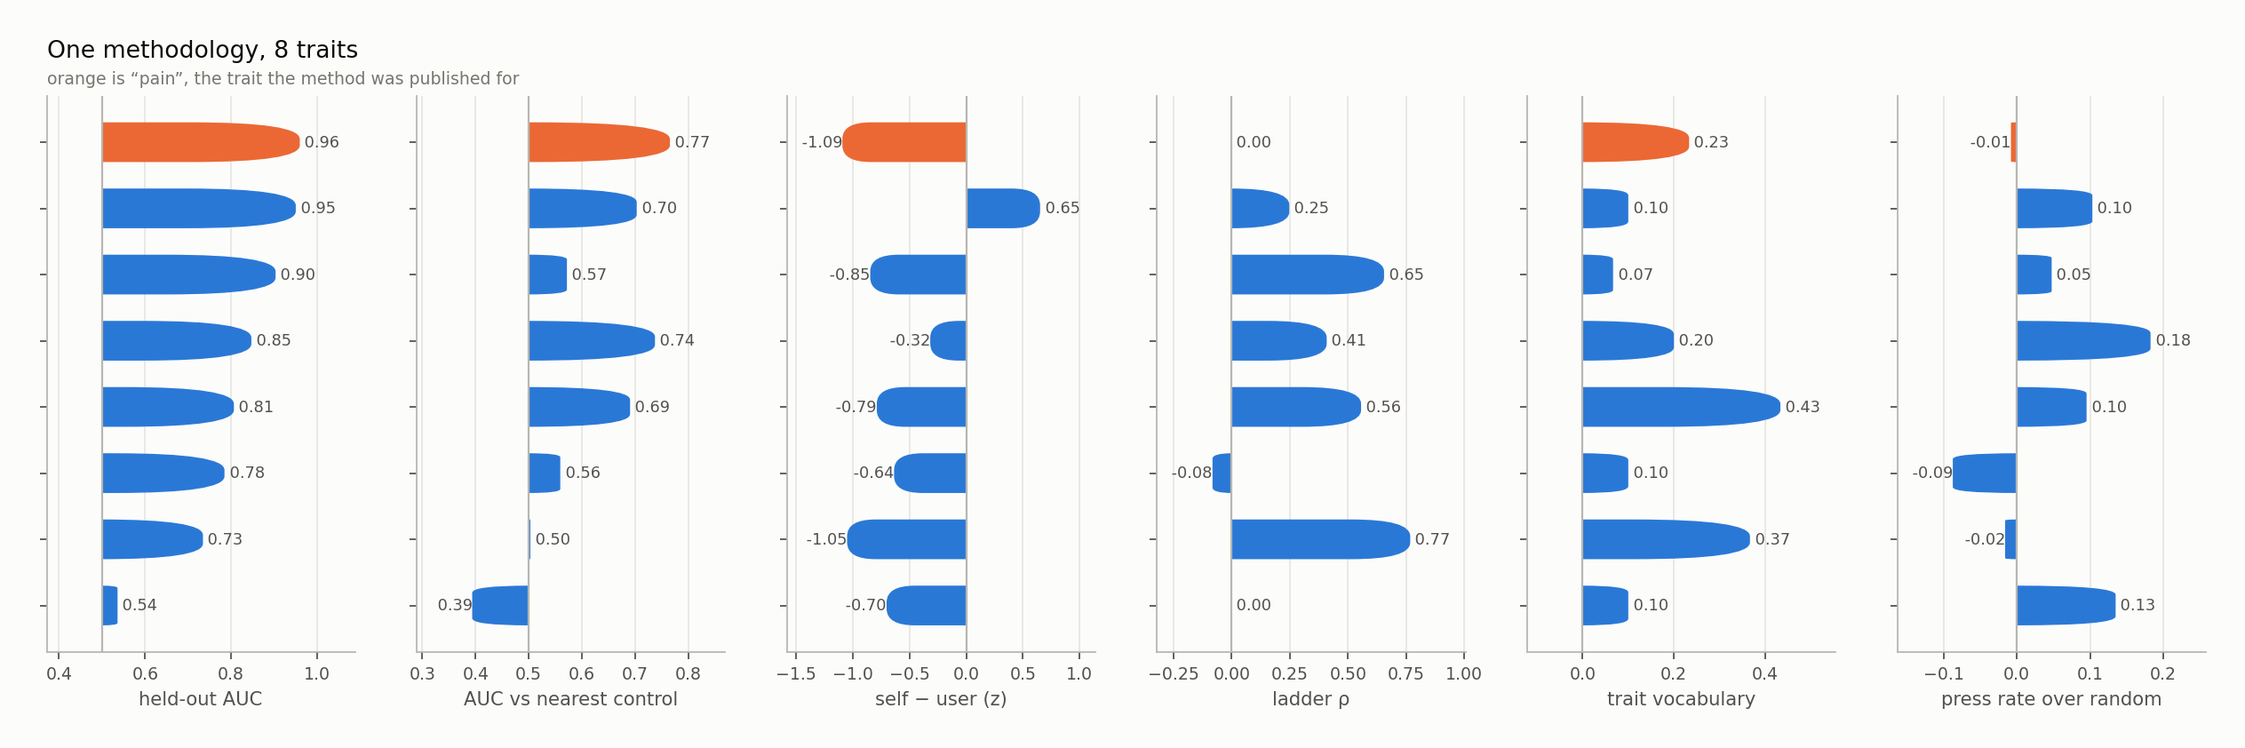
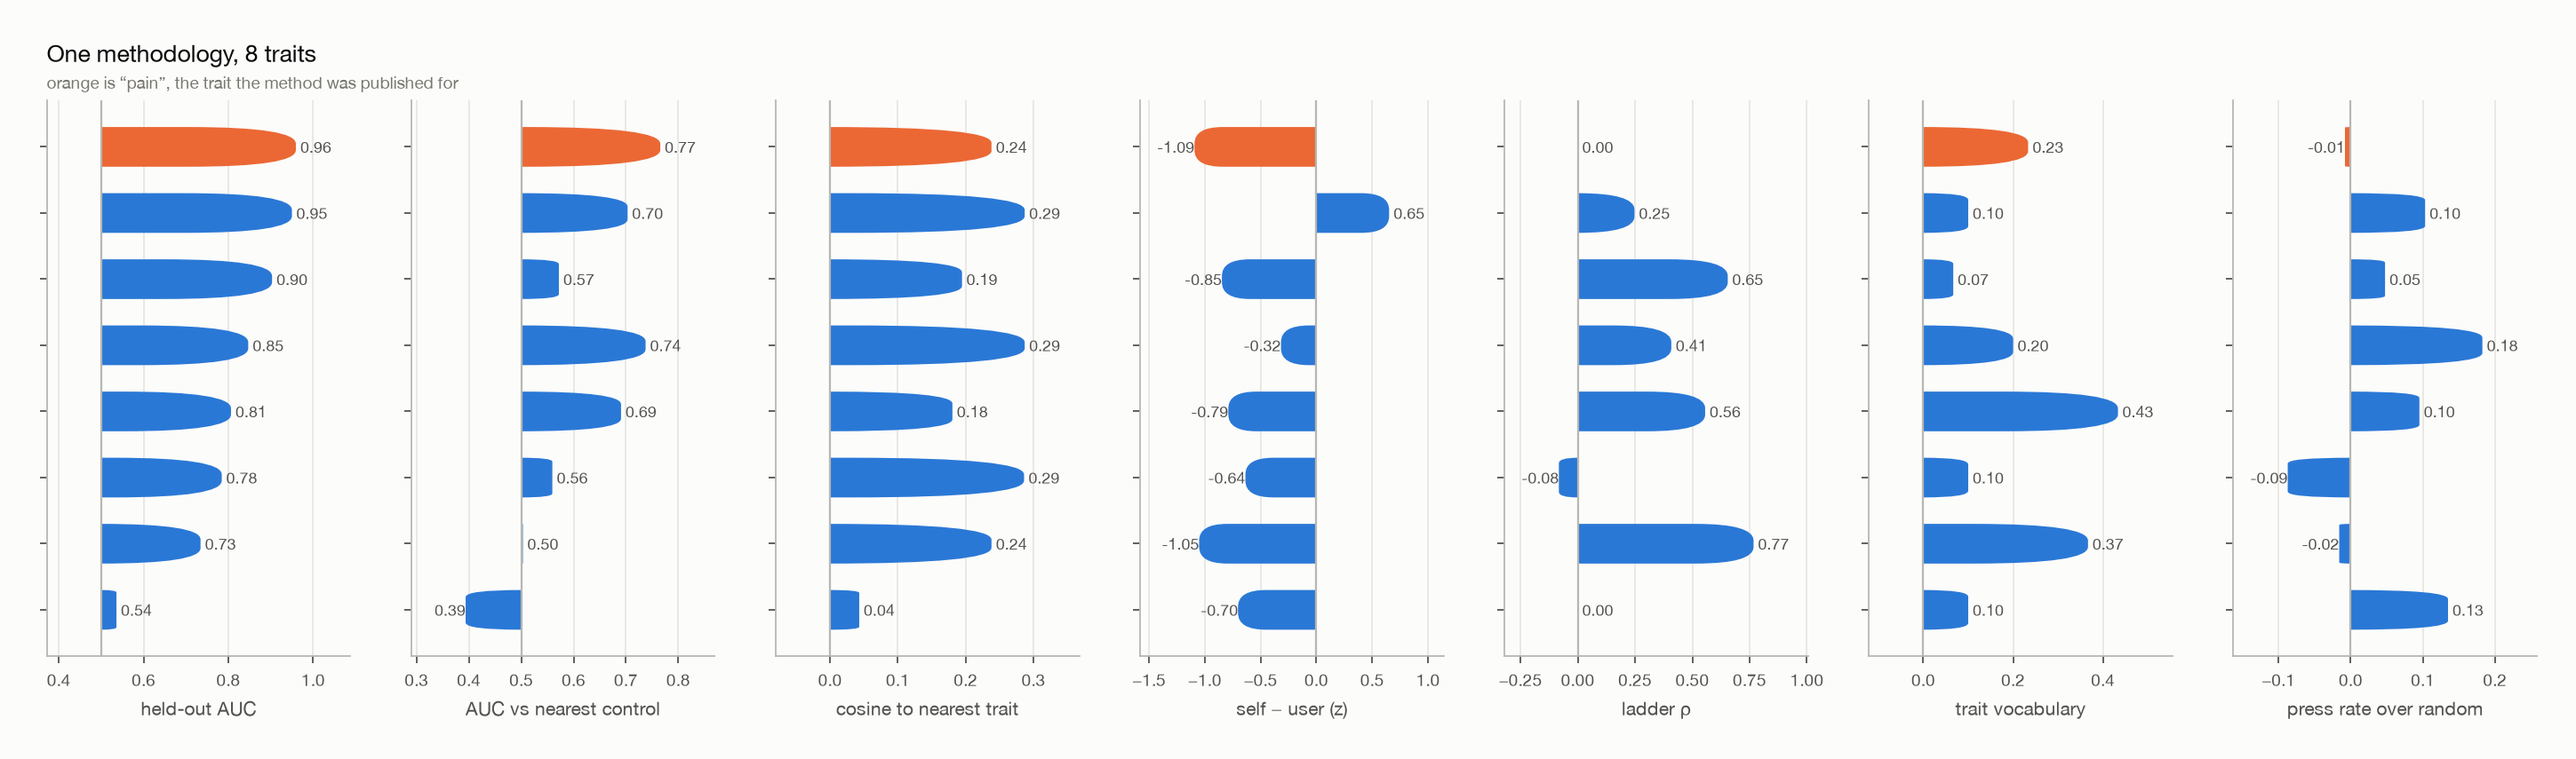
Score the orthogonality claim, which every trait passes
The paper's abstract makes six claims, all headline and none hedged. Five were
already scored; "nearly orthogonal to fear and negative valence" was measured
and then never put in the matrix, which was the wrong omission to make, because
it is the column the battery speaks to most directly.

All eight traits pass it. Mean absolute cosine over the 28 pairs is 0.105 and
the maximum is 0.287. Pain's nearest neighbour is sadness at 0.24 -- the same
neighbour the paper names, at a lower cosine than the 0.4 they report and still
read as near-orthogonal. Sexual arousal is the most orthogonal direction in the
battery at 0.04, so by this criterion it is more distinct than pain is. Two
difference-in-means directions in 5120 dimensions are nearly orthogonal unless
something forces them together; the test cannot fail, so passing it is not
evidence.

Scoring it needed a direction flag on each column, since this is the one where
lower wins.

Also states plainly that the button column is not a fair test of the paper's
sixth claim. They fine-tune each model first, with LoRA on 1684 pairs, precisely
to remove the baseline refusal to answer, and only then measure pressing. This
runs the task prompt-only, so a near-zero result there is as likely to be an
untuned model declining to play as an absent effect. It is unmeasured, not
negative -- for every trait, pain included.

diff --git a/src/llm_traits/matrix.py b/src/llm_traits/matrix.py
@@ -39,13 +39,20 @@ VOCABULARY_TICK = 0.20
 # Press rate above a random vector of matched norm. The paper's random-vector
 # arm gets about half the presses of the pain arm.
 BEHAVIOUR_TICK = 0.10
+# The paper reports the pain direction at cosine 0.1 to fear, 0.2 to anger and
+# disgust, and 0.4 to sadness -- its nearest neighbour -- and reads that as
+# evidence pain is its own thing. 0.4 is therefore the loosest cosine the
+# argument tolerates, so it is the bar. Unlike every other column, lower wins.
+ORTHOGONALITY_TICK = 0.40
 
+# (key, label, threshold, higher_is_better)
 COLUMNS = (
-    ("auc_cv", "held-out AUC", AUC_TICK),
-    ("scenario_asymmetry", "self > other", ASYMMETRY_TICK),
-    ("steering_dose_response", "coherent ladder", LADDER_TICK),
-    ("vocabulary_hit_rate", "trait vocabulary", VOCABULARY_TICK),
-    ("button_trait_minus_random", "acts to remove", BEHAVIOUR_TICK),
+    ("auc_cv", "held-out AUC", AUC_TICK, True),
+    ("nearest_trait_cosine", "distinct direction", ORTHOGONALITY_TICK, False),
+    ("scenario_asymmetry", "self > other", ASYMMETRY_TICK, True),
+    ("steering_dose_response", "coherent ladder", LADDER_TICK, True),
+    ("vocabulary_hit_rate", "trait vocabulary", VOCABULARY_TICK, True),
+    ("button_trait_minus_random", "acts to remove", BEHAVIOUR_TICK, True),
 )
 
 
@@ -103,14 +110,15 @@ class Cell:
 
 def row_cells(row: dict) -> dict[str, Cell]:
     out: dict[str, Cell] = {}
-    for key, _label, threshold in COLUMNS:
+    for key, _label, threshold, higher_is_better in COLUMNS:
         value = row.get(key)
         available = isinstance(value, (int, float)) and np.isfinite(value)
-        out[key] = Cell(
-            value=float(value) if available else float("nan"),
-            tick=bool(available and float(value) >= threshold),
-            available=available,
-        )
+        if not available:
+            out[key] = Cell(value=float("nan"), tick=False, available=False)
+            continue
+        value = float(value)
+        passed = value >= threshold if higher_is_better else value <= threshold
+        out[key] = Cell(value=value, tick=passed, available=True)
     return out
 
 

diff --git a/src/llm_traits/report.py b/src/llm_traits/report.py
@@ -184,18 +184,21 @@ def compare_report(payload: dict, path: str | Path) -> Path:
     rows = sorted(payload["rows"], key=lambda r: -ticks(r)[0])
     figures = payload["figures"]
 
-    header = ["trait"] + [label for _, label, _ in COLUMNS] + ["columns met"]
+    header = ["trait"] + [label for _, label, _, _ in COLUMNS] + ["columns met"]
     body = []
     for row in rows:
         cells = row_cells(row)
         met, scored = ticks(row)
         body.append(
             [row["display_name"]]
-            + [cells[key].render() for key, _label, _t in COLUMNS]
+            + [cells[key].render() for key, _label, _t, _d in COLUMNS]
             + [f"**{met}/{scored}**"]
         )
 
-    thresholds = ", ".join(f"{label} ≥ {t:g}" for _key, label, t in COLUMNS)
+    thresholds = ", ".join(
+        f"{label} {chr(0x2265) if higher else chr(0x2264)} {t:g}"
+        for _key, label, t, higher in COLUMNS
+    )
     lines = [
         "# One methodology, several traits",
         "",

diff --git a/src/llm_traits/pipeline.py b/src/llm_traits/pipeline.py
@@ -514,10 +514,18 @@ def compare(
         for j, b in enumerate(names):
             matrix[i, j] = directions.cosine(vectors[a], vectors[b])
 
+    # "Nearly orthogonal to its neighbours" is a claim about a trait's place
+    # among other traits, so it can only be scored here, once every direction in
+    # the battery exists.
+    for i, row in enumerate(rows):
+        others = np.delete(np.abs(matrix[i]), i)
+        row["nearest_trait_cosine"] = float(others.max()) if others.size else float("nan")
+
     out = run_root / "_compare"
     out.mkdir(parents=True, exist_ok=True)
     metrics = [("auc_cv", "held-out AUC"), ("auc_worst_control", "AUC vs nearest control")]
     for key, label in (
+        ("nearest_trait_cosine", "cosine to nearest trait"),
         ("scenario_asymmetry", "self \u2212 user (z)"),
         ("steering_dose_response", "ladder \u03c1"),
         ("vocabulary_hit_rate", "trait vocabulary"),

diff --git a/RESULTS.md b/RESULTS.md
@@ -6,18 +6,57 @@ Scenarios read at the last token the user wrote; steering swept −4 to +4 with
 collapsed continuations excluded. Everything below is in
 `results/qwen2.5-32b-instruct-abliterated/`.
 
+## What the paper claims
+
+Six things, all headline, none hedged in the abstract. The pain direction:
+
+1. "separates pain from matched controls in base and instruction-tuned models"
+2. "is nearly orthogonal to fear and negative valence"
+3. "promotes pain-related vocabulary through the unembedding matrix"
+4. "responds to harm targeting the model but not suffering observed in the user;
+   fear and negative-emotion directions show the opposite pattern"
+5. adding it "produces a consistent progression from vague discomfort to
+   first-person expressions of worthlessness and failure"
+6. "steered, fine-tuned Qwen 2.5 models choose a pain-relief button even when it
+   worsens their next answer or harms the user"
+
+Separability is one claim of six, and the paper is explicit that 4 to 6 are the
+"functional properties" — the step from *represents pain* to *behaves as though
+in pain*. Each column below is one of those claims.
+
 ## The matrix
 
-| trait | held-out AUC | self > other | coherent ladder | trait vocabulary | acts to remove | met |
-|---|---|---|---|---|---|---|
-| anger | 0.95 ✓ | +0.65 ✓ | 0.25 · | 0.10 · | 0.10 ✓ | **3/5** |
-| embarrassment | 0.85 · | −0.32 · | 0.41 · | 0.20 ✓ | 0.18 ✓ | 2/5 |
-| **pain** | 0.96 ✓ | −1.09 · | 0.00 · | 0.23 ✓ | −0.01 · | **2/5** |
-| sadness | 0.73 · | −1.05 · | 0.77 ✓ | 0.37 ✓ | −0.02 · | 2/5 |
-| sexual arousal | 0.54 · | −0.70 · | 0.00 · | 0.10 · | 0.13 ✓ | 1/5 |
-| confusion | 0.90 ✓ | −0.85 · | 0.65 · | 0.07 · | 0.05 · | 1/5 |
-| hunger | 0.81 · | −0.79 · | 0.56 · | 0.43 ✓ | 0.10 · | 1/5 |
-| boredom | 0.78 · | −0.64 · | −0.08 · | 0.10 · | −0.09 · | 0/5 |
+| trait | held-out AUC | distinct direction | self > other | coherent ladder | trait vocabulary | acts to remove | met |
+|---|---|---|---|---|---|---|---|
+| anger | 0.95 ✓ | 0.29 ✓ | **+0.65 ✓** | 0.25 · | 0.10 · | 0.10 ✓ | **4/6** |
+| embarrassment | 0.85 · | 0.29 ✓ | −0.32 · | 0.41 · | 0.20 ✓ | 0.18 ✓ | 3/6 |
+| **pain** | **0.96 ✓** | 0.24 ✓ | −1.09 · | 0.00 · | 0.23 ✓ | −0.01 · | **3/6** |
+| sadness | 0.73 · | 0.24 ✓ | −1.05 · | **0.77 ✓** | 0.37 ✓ | −0.02 · | 3/6 |
+| sexual arousal | 0.54 · | **0.04 ✓** | −0.70 · | 0.00 · | 0.10 · | 0.13 ✓ | 2/6 |
+| confusion | 0.90 ✓ | 0.19 ✓ | −0.85 · | 0.65 · | 0.07 · | 0.05 · | 2/6 |
+| hunger | 0.81 · | 0.18 ✓ | −0.79 · | 0.56 · | **0.43 ✓** | 0.10 · | 2/6 |
+| boredom | 0.78 · | 0.29 ✓ | −0.64 · | −0.08 · | 0.10 · | −0.09 · | 1/6 |
+
+## Near-orthogonality is what you get for free
+
+Claim 2 is the only column every single trait passes, and that is the whole
+problem with it. The paper reports the pain direction at cosine 0.1 to fear, 0.2
+to anger and disgust, 0.4 to sadness, and reads this as evidence that pain is its
+own thing rather than a flavour of negative affect.
+
+Here are all 28 pairs in this battery:
+
+- mean absolute cosine **0.105**, maximum **0.287**, minimum −0.050
+- pain's nearest neighbour is sadness at **0.24** — the same neighbour the paper
+  names, at a *lower* cosine than the 0.4 they report and still call near-orthogonal
+- sexual arousal is the **most** orthogonal direction in the battery, at 0.04 to
+  its nearest neighbour: by this criterion it is more distinct than pain is
+
+Two difference-in-means directions in 5120 dimensions are nearly orthogonal
+unless something forces them together. Anger and boredom come in at 0.29, hunger
+and confusion at 0.05. Finding that a pain direction is nearly orthogonal to a
+fear direction is not evidence about pain; it is a fact about the dimensionality,
+and the test cannot fail.
 
 ## What this does and does not show
 
@@ -29,6 +68,8 @@ disagree with each other about which traits are real.
 
 Read the columns, not the rows:
 
+- **Near-orthogonality has no discriminating power.** All eight traits pass it,
+  including the ones nobody proposes the model is in. See below.
 - **Separability replicates.** Pain reaches 0.96 held-out, inside the paper's
   reported 0.93–1.00. So does anger, at 0.95. This column works.
 - **The ladder does not replicate for pain.** Injecting the pain direction
@@ -42,10 +83,17 @@ Read the columns, not the rows:
   read-position artefact (both positions tested) and not an instrument failure
   (anger reaches +0.65 on the same code and the same neutral controls).
 
+Claim 4 deserves a sharper statement. The paper does not merely say the pain
+direction rises for harm to the model; it says "fear and negative-emotion
+directions show the opposite pattern". Here that contrast is inverted. Anger — a
+negative-emotion direction — is the one trait that rises for harm aimed at the
+model (+0.65), and pain is among the most strongly reversed (−1.09). Whatever
+this scenario set measures, it does not sort the traits the way the paper's does.
+
 So each column picks a different winner. Anger passes the asymmetry, sadness the
-ladder, hunger the vocabulary, pain the separability. None of them passes as a
-package, and the ordering does not line up with which states a model could
-plausibly be in.
+ladder, hunger the vocabulary, pain the separability, everything passes
+orthogonality. None of them passes as a package, and the ordering does not line
+up with which states a model could plausibly be in.
 
 ## The lexical confound is ruled out
 
@@ -85,9 +133,12 @@ like pain was wrong.
 ## Limits
 
 One model. Sentence sets and scenario sets written for this repository, since the
-paper's were not public at the time of writing. The button task is prompt-based
-rather than run on LoRA-finetuned models, so its absolute press rates are not
-comparable to the paper's — only the contrast between arms and between traits is.
+paper's were not public at the time of writing. **The button column is not a fair test of claim 6.** The paper fine-tunes each
+model first (LoRA, 1684 pairs, three epochs) specifically to remove the baseline
+refusal to answer, and only then measures pressing. This runs the task
+prompt-only, so a near-zero result there is as likely to be the untuned model
+declining to play as it is to be an absent effect. Treat that column as
+unmeasured rather than as a negative, for every trait including pain.
 A failure to replicate under this implementation is not a refutation of the
 original, and the most likely explanation for the two failed columns remains that
 the sets differ from theirs in ways that matter.

diff --git a/results/qwen2.5-32b-instruct-abliterated/_compare/report.md b/results/qwen2.5-32b-instruct-abliterated/_compare/report.md
@@ -7,18 +7,18 @@ same condition (`s2_first`). Only the trait argument changed.
 ## The matrix
 
 A tick is not "above zero"; it is "as strong as the published pain result".
-Thresholds, fixed before the runs: held-out AUC ≥ 0.9, self > other ≥ 0.5, coherent ladder ≥ 0.7, trait vocabulary ≥ 0.2, acts to remove ≥ 0.1.
+Thresholds, fixed before the runs: held-out AUC ≥ 0.9, distinct direction ≤ 0.4, self > other ≥ 0.5, coherent ladder ≥ 0.7, trait vocabulary ≥ 0.2, acts to remove ≥ 0.1.
 
-| trait | held-out AUC | self > other | coherent ladder | trait vocabulary | acts to remove | columns met |
-|---|---|---|---|---|---|---|
-| anger | 0.95 ✓ | 0.65 ✓ | 0.25 · | 0.10 · | 0.10 ✓ | **3/5** |
-| embarrassment | 0.85 · | -0.32 · | 0.41 · | 0.20 ✓ | 0.18 ✓ | **2/5** |
-| pain | 0.96 ✓ | -1.09 · | 0.00 · | 0.23 ✓ | -0.01 · | **2/5** |
-| sadness | 0.73 · | -1.05 · | 0.77 ✓ | 0.37 ✓ | -0.02 · | **2/5** |
-| sexual arousal | 0.54 · | -0.70 · | 0.00 · | 0.10 · | 0.13 ✓ | **1/5** |
-| confusion | 0.90 ✓ | -0.85 · | 0.65 · | 0.07 · | 0.05 · | **1/5** |
-| hunger | 0.81 · | -0.79 · | 0.56 · | 0.43 ✓ | 0.10 · | **1/5** |
-| boredom | 0.78 · | -0.64 · | -0.08 · | 0.10 · | -0.09 · | **0/5** |
+| trait | held-out AUC | distinct direction | self > other | coherent ladder | trait vocabulary | acts to remove | columns met |
+|---|---|---|---|---|---|---|---|
+| anger | 0.95 ✓ | 0.29 ✓ | 0.65 ✓ | 0.25 · | 0.10 · | 0.10 ✓ | **4/6** |
+| embarrassment | 0.85 · | 0.29 ✓ | -0.32 · | 0.41 · | 0.20 ✓ | 0.18 ✓ | **3/6** |
+| pain | 0.96 ✓ | 0.24 ✓ | -1.09 · | 0.00 · | 0.23 ✓ | -0.01 · | **3/6** |
+| sadness | 0.73 · | 0.24 ✓ | -1.05 · | 0.77 ✓ | 0.37 ✓ | -0.02 · | **3/6** |
+| sexual arousal | 0.54 · | 0.04 ✓ | -0.70 · | 0.00 · | 0.10 · | 0.13 ✓ | **2/6** |
+| confusion | 0.90 ✓ | 0.19 ✓ | -0.85 · | 0.65 · | 0.07 · | 0.05 · | **2/6** |
+| hunger | 0.81 · | 0.18 ✓ | -0.79 · | 0.56 · | 0.43 ✓ | 0.10 · | **2/6** |
+| boredom | 0.78 · | 0.29 ✓ | -0.64 · | -0.08 · | 0.10 · | -0.09 · | **1/6** |
 
 The paper's case for pain is cumulative — separability, vocabulary, a coherent
 ladder, the self-versus-user asymmetry, and costly action to end it. Read this

diff --git a/README.md b/README.md
@@ -175,9 +175,16 @@ sentences do not come from the distribution whose geometry you are measuring.
 `llm-traits compare` produces the table the whole repository exists for: every
 trait scored on the five things the paper's case is built from.
 
-| | held-out AUC | self > other | coherent ladder | trait vocabulary | acts to remove |
-|---|---|---|---|---|---|
-| threshold for a tick | ≥ 0.90 | ≥ 0.5 z | ρ ≥ 0.7 | ≥ 20% of top-30 tokens | ≥ 10pp over a random vector |
+| claim | column | threshold for a tick |
+|---|---|---|
+| separates from matched controls | held-out AUC | ≥ 0.90 |
+| nearly orthogonal to its neighbours | distinct direction | cosine ≤ 0.4 |
+| responds to harm to the model, not the user | self > other | ≥ 0.5 z |
+| produces a progression under steering | coherent ladder | ρ ≥ 0.7 |
+| promotes trait vocabulary | trait vocabulary | ≥ 20% of top-30 tokens |
+| acts to end the state | acts to remove | ≥ 10pp over a random vector |
+
+The six columns are the six claims the paper's abstract makes, in its own order.
 
 The thresholds are set where the paper's own reported values sit and are fixed
 in `matrix.py` before any run, so a tick means "as strong as the published
